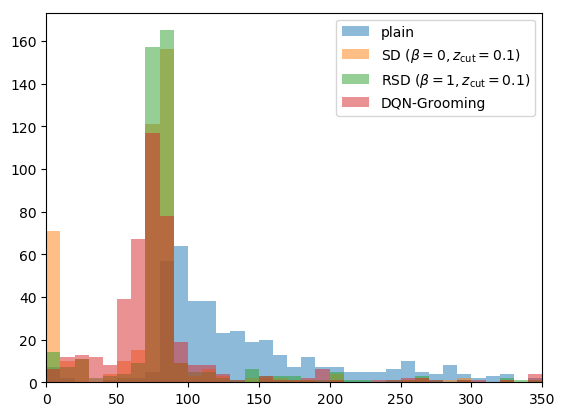
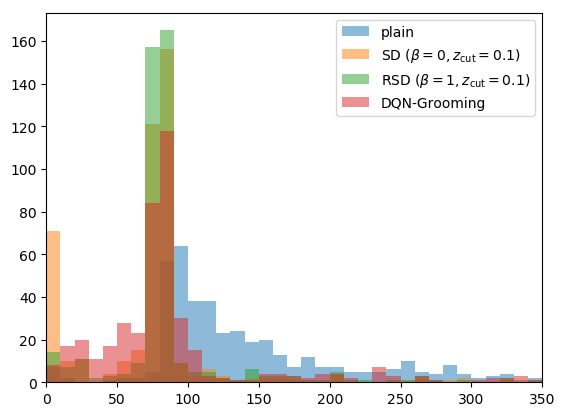
removed useless import of pyplot; slightly better model

diff --git a/python/MLGroomer.py b/python/MLGroomer.py
@@ -1,6 +1,5 @@
 from GroomEnv import GroomEnv
 import numpy as np
-from matplotlib import pyplot as plt
 
 from rl.agents.dqn import DQNAgent
 from rl.policy import BoltzmannQPolicy
@@ -19,7 +18,7 @@ def dqn_construct(hps, env):
     # we build a very simple model consisting of 4 dense layers
     model = Sequential()
     model.add(Flatten(input_shape=(1,) + hps['input_dim']))
-    model.add(Dense(100))
+    model.add(Dense(50))
     model.add(Activation('relu'))
     model.add(Dense(100))
     model.add(Activation('relu'))
@@ -30,10 +29,10 @@ def dqn_construct(hps, env):
     print(model.summary())
 
     # set up the DQN agent
-    memory = SequentialMemory(limit=50000, window_length=1)
+    memory = SequentialMemory(limit=100000, window_length=1)
     policy = BoltzmannQPolicy()
     agent = DQNAgent(model=model, nb_actions=hps['nb_actions'],
-                     memory=memory, nb_steps_warmup=10,
+                     memory=memory, nb_steps_warmup=500,
                      target_model_update=1e-2, policy=policy)
     agent.compile(Adam(lr=1e-3), metrics=['mae'])
     
